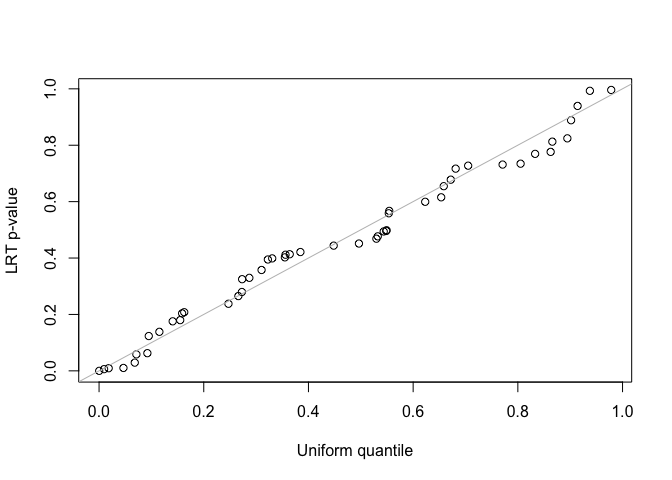
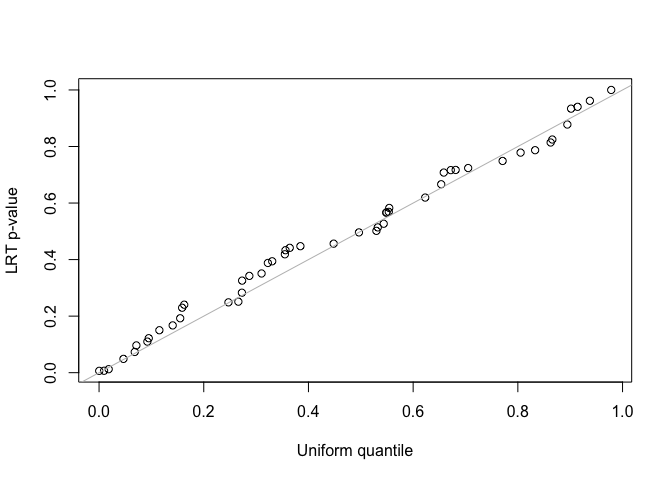
Initial commit

diff --git a/README.md b/README.md
@@ -198,7 +198,9 @@ with two-component random effects.
 ## generated.
 set.seed(2508)
 n <- nrow(metadata)
-metadata$time <- rnorm(n, 8) + rnorm(n, 8) * sample(0:1, n, replace = TRUE)
+metadata$time <- rnorm(n, 6) + rnorm(n, 6) * sample(0:1, n, replace = TRUE)
+range(metadata$time)
+#> [1]  1.31501 16.58419
 Za <- model.matrix(~0 + sam + sam:time, data = metadata)
 da <- c(ncol(Za)/2, ncol(Za)/2)  #dimension
 
